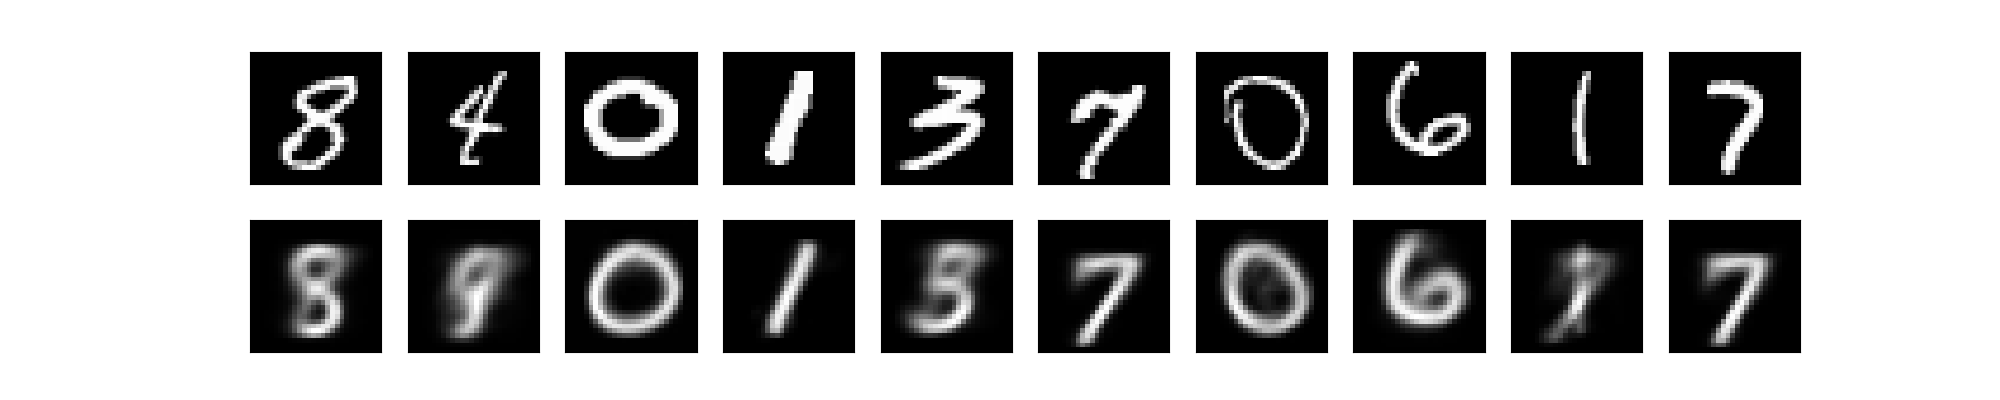
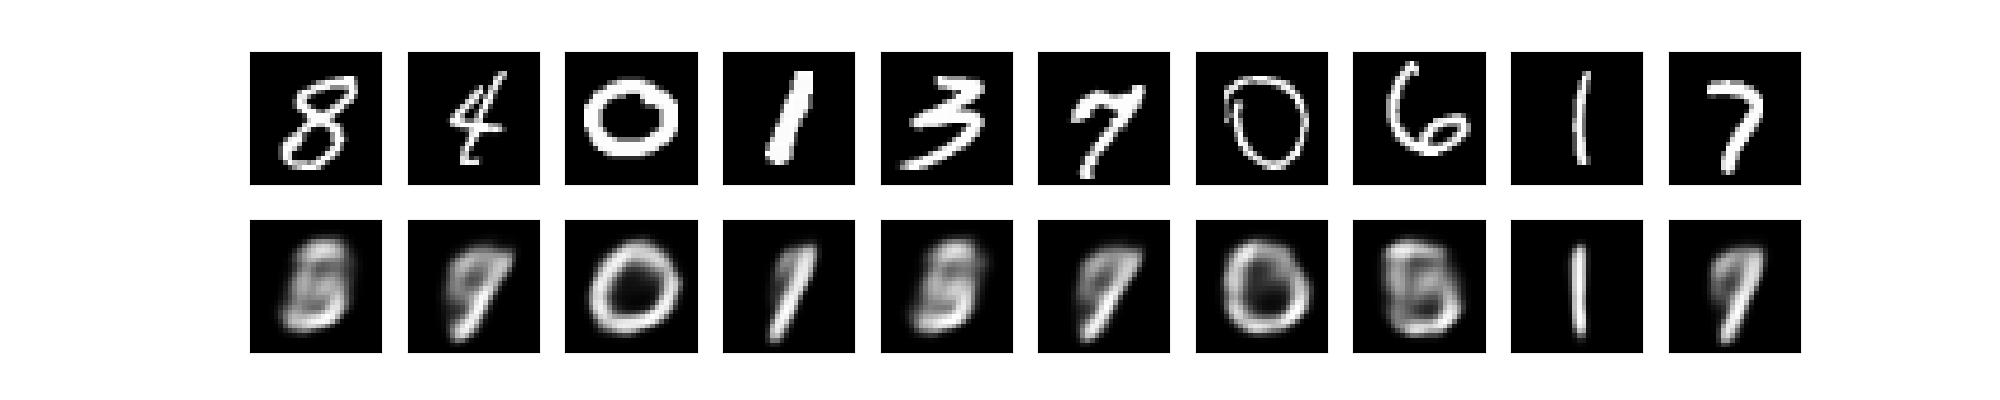
args update

diff --git a/reconstruction.py b/reconstruction.py
@@ -16,9 +16,9 @@ parser.add_argument('-s', '--seed', default=42, type=int)
 parser.add_argument('-is', '--in_image_size', default=(28, 28), type=tuple)
 parser.add_argument('-ois', '--out_image_size', default=(28, 28), type=tuple)
 parser.add_argument('-ic', '--in_channels', default=1, type=int)
-parser.add_argument('-edh', '--enc_hidden_channels', default=32, type=int)
+parser.add_argument('-edh', '--enc_hidden_channels', default=64, type=int)
 parser.add_argument('-dl', '--dim_latent', default=2, type=int)
-parser.add_argument('-dhf', '--dec_hidden_features', default=256, type=int)
+parser.add_argument('-dhf', '--dec_hidden_features', default=512, type=int)
 parser.add_argument('-oc', '--out_channels', default=1, type=int)
 parser.add_argument('-lr', '--learning_rate', default=1e-3, type=float)
 parser.add_argument('-ip', '--is_profiler', default=False, type=bool)
